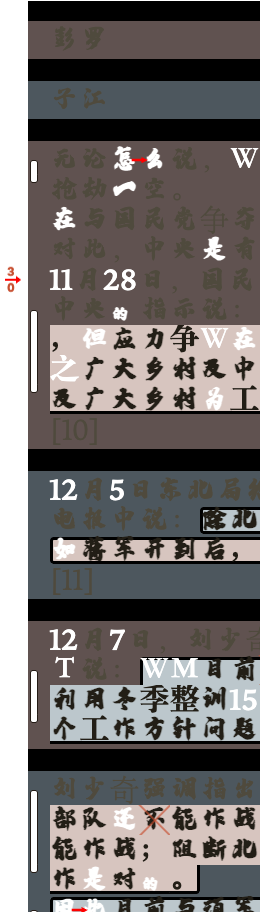
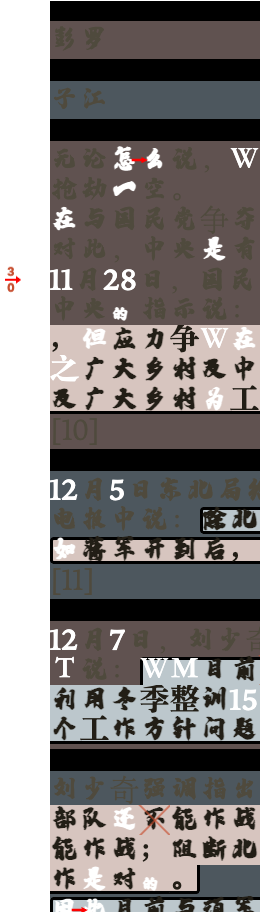
文字左侧不要有黑边 去掉 留给白色滚动轴
左缘白轴吞下正文行首留白：#章节轨道 白底从三列之和（28px）加宽到首字左缘
（+ 正文左留白 9px + 末处标记 0.42em），深色纸面上首字之前不再露出一条段落色带黑边；
行首留白仍留在行盒里（折行竖条与 ◀ 的容身处），只是被白轴盖住。
关键词刻度画布 right 内缩同一段钉在原位，章节刻度与进度数字列不动。
tmp/verify-行尾空隙.mjs 首字边界断言同步改为「首字紧贴白轴右缘」，
并新增 tmp/行首白轴-放大.png 左缘放大截图；headless Chrome 已实测断言全过、profile 已清理。

Changed region(s): [[0.0923, 0.0, 0.2154, 1.0]]

diff --git a/styles.css b/styles.css
@@ -103,7 +103,9 @@
   --行首标记留白: calc(var(--正文字号) * var(--末处标记留白比例));
   /* 页面左缘一叠竖列：章节刻度贴屏幕左缘，再往右才是进度数字与选中关键词——
      中间隔着数字列，免得灰色章节刻度与关键词刻度贴在一起分不清。
-     悬停时临时关键词列再往右让出一格。右侧没有轨道，正文直接铺到视口右缘。 */
+     悬停时临时关键词列再往右让出一格。右侧没有轨道，正文直接铺到视口右缘。
+     白轴右缘不止三列之和：行首留白（折行竖条 + 末处标记格）也划给白轴，
+     正文首字紧贴白轴右缘，深色纸面上行首不再露出一条黑边。 */
   --章节刻度宽度: 5px;
   --百分比宽度: 11px;
   --关键词宽度: 12px;
@@ -185,13 +187,18 @@ body.关键词手势中 .滚动容器 {
   touch-action: none;
 }
 
-/* 左缘窄轨：只承载章节刻度与进度数字，不吃指针事件，正文照常选中 */
+/* 左缘窄轨：只承载章节刻度与进度数字，不吃指针事件，正文照常选中。
+   白底宽度在三列之和上再多吞一段行首留白（正文行盒的首字之前那截），
+   让白轴直接顶到首字左缘——那段底色原是段落色带，深色主题下是一条黑边；
+   行首留白本身仍留在行盒里（竖条与 ◀ 的容身之处），只是被白轴盖住。 */
 .章节轨道 {
   position: fixed;
   top: 0;
   left: 0;
   z-index: 6;
-  width: var(--章节轨道宽度);
+  width: calc(
+    var(--章节轨道宽度) + var(--正文左留白) + var(--行首标记留白)
+  );
   height: 100%;
   overflow: hidden;
   background: #fff;
@@ -218,11 +225,12 @@ body.关键词手势中 .滚动容器 {
   display: none;
 }
 
-/* canvas 是替换元素，必须显式给高，top/bottom 不会把它拉满 */
+/* canvas 是替换元素，必须显式给高，top/bottom 不会把它拉满。
+   轨道白底吞下了行首留白，right 内缩同一段作抵消，关键词刻度仍贴在进度数字列右侧 */
 .关键词指示器 {
   position: absolute;
   top: 0;
-  right: 0;
+  right: calc(var(--正文左留白) + var(--行首标记留白));
   display: block;
   width: var(--关键词宽度);
   height: 100%;
